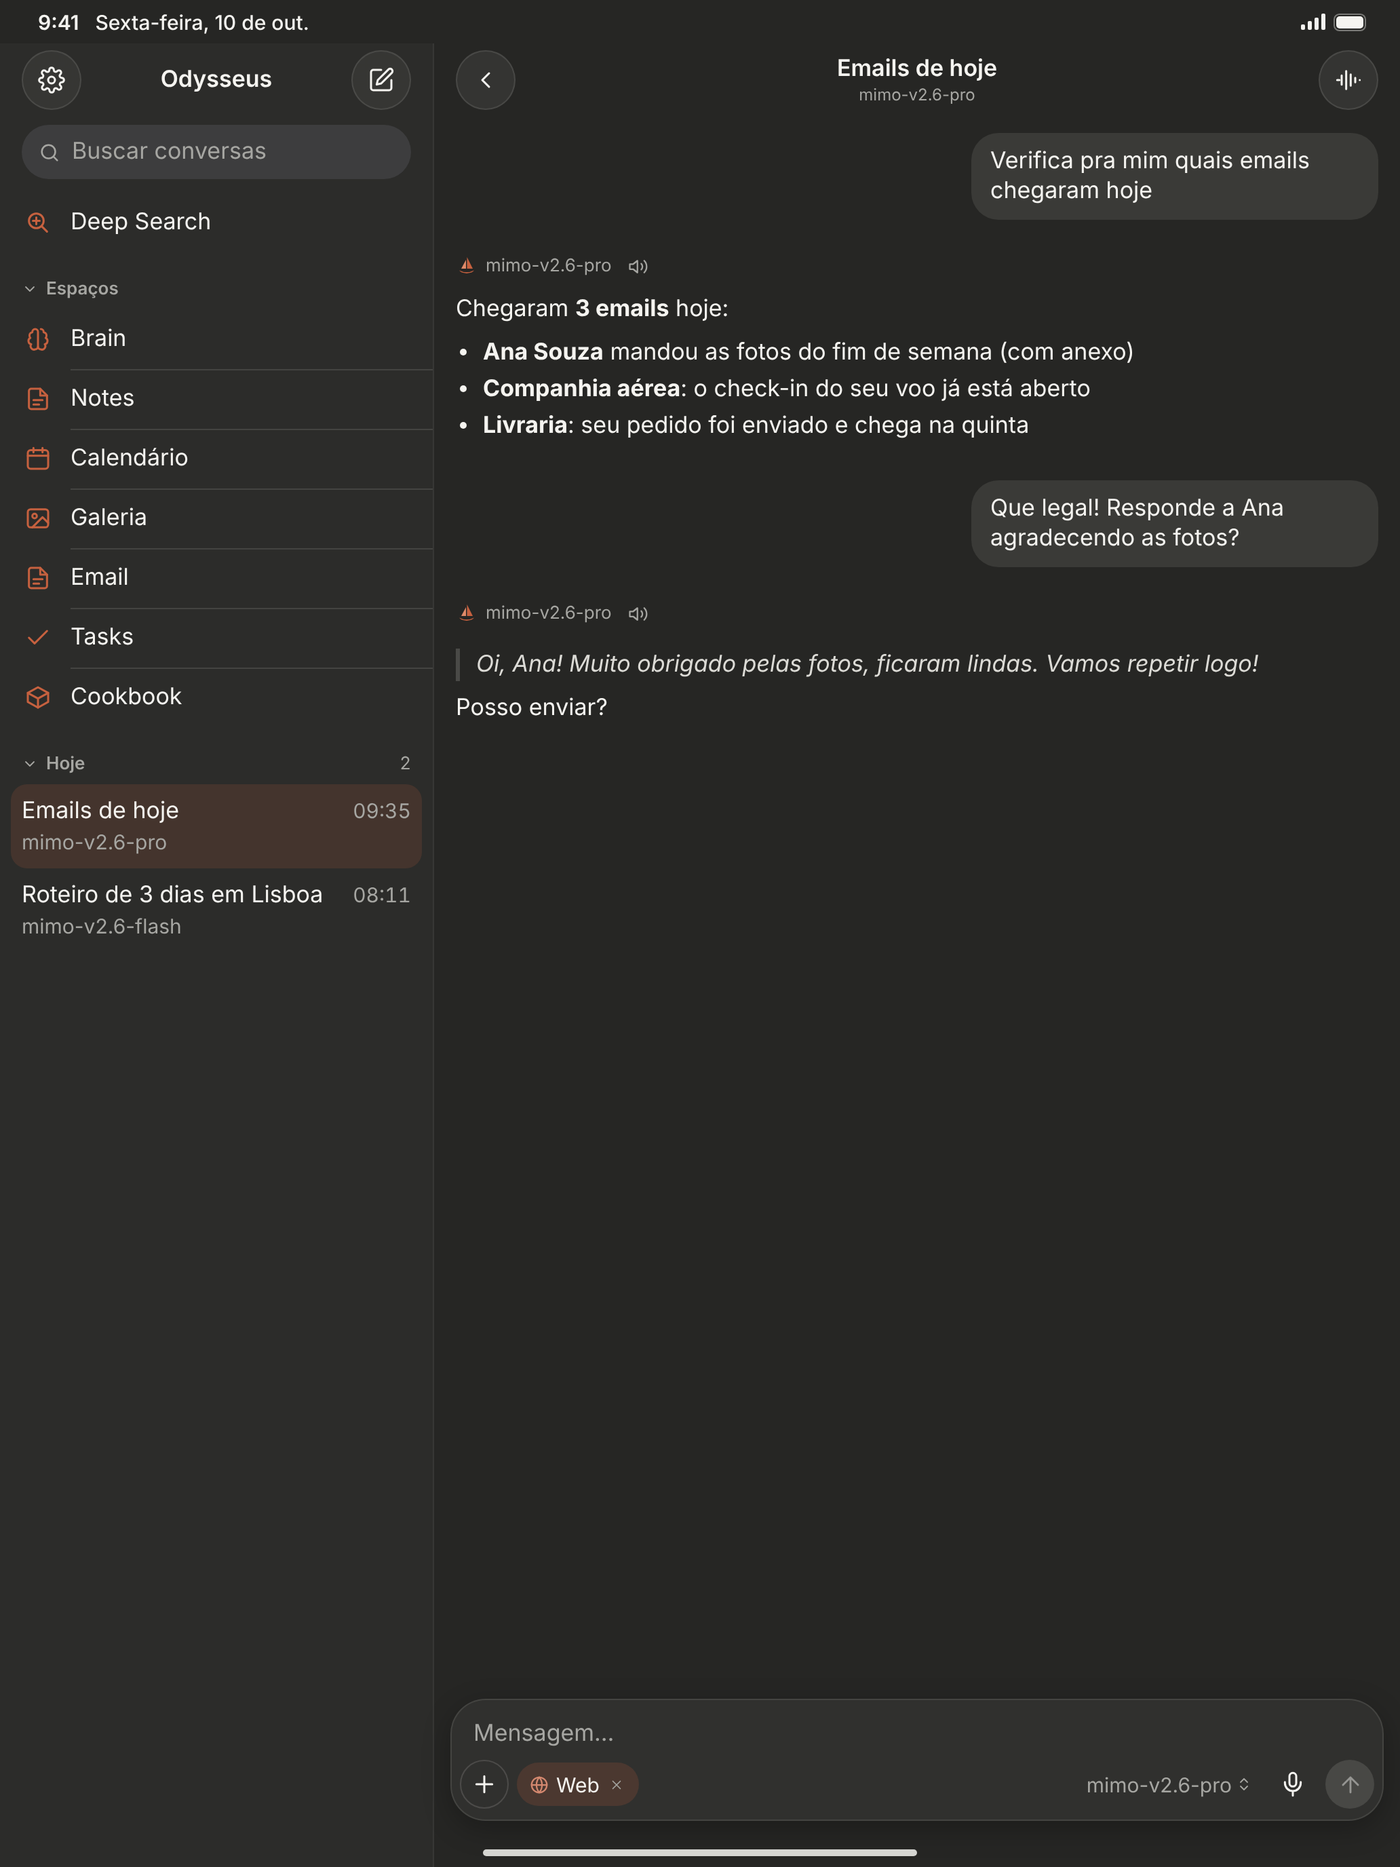
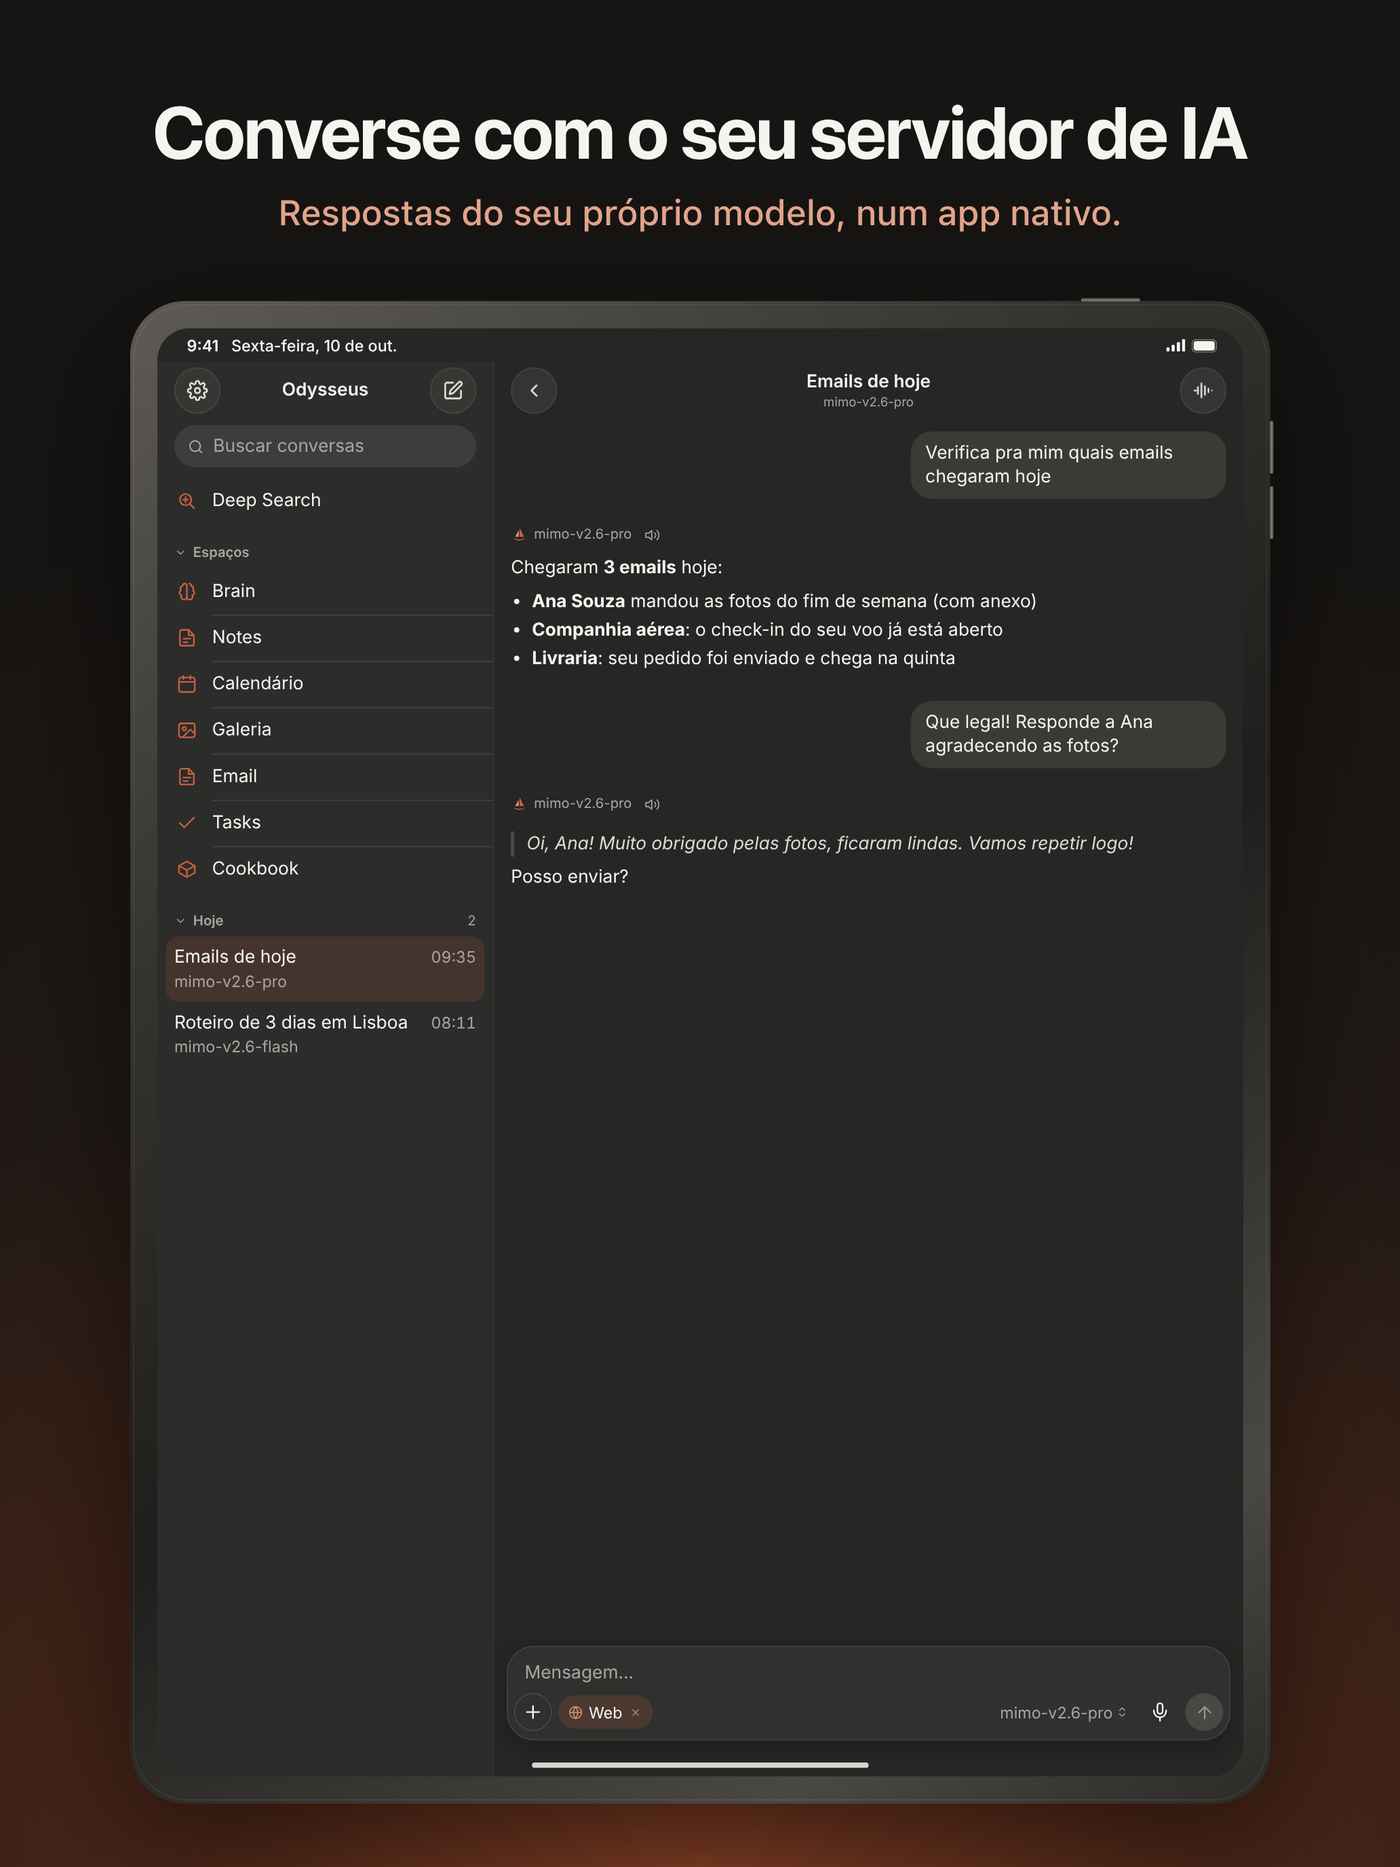
feat(appstore): device frames and captions on the store images; round close button in Voz
- iPhone, iPhone Duo and iPad images now show the device frame and a short
  caption; the bare screens move to out/sem-moldura.
- No third-party AI names in any image: faster-whisper left the Cookbook
  screen, sample models are mimo-v2.6-pro / mimo-v2.6-flash only.
- Voz closes with a glass X button, like the other bar buttons in the
  iPhone Duo side rail.

Claude-Session: https://claude.ai/code/session_014hM6K7GVEBdyn6GLDqmvWN

diff --git a/docs/appstore/shots.js b/docs/appstore/shots.js
@@ -106,6 +106,91 @@
     return '<div class="ph" style="left:' + x + 'px;top:' + y + 'px;transform:scale(' + scale + ') rotate(' + rot + 'deg)">' + O.phone(S[i].h) + '</div>';
   }
 
+  // ---------- App Store images with the device frame ----------
+  var css2 = document.createElement('style');
+  css2.textContent = [
+    '.canvas { position: relative; overflow: hidden; background: radial-gradient(130% 75% at 50% 100%, #8a4227 0%, #4a2618 30%, #221a16 62%, #171513 100%); font-family: "SF Pro Display", var(--ui); color: #f5f4f0; -webkit-font-smoothing: antialiased; }',
+    '.canvas .cap { position: absolute; left: 0; right: 0; text-align: center; padding: 0 6%; }',
+    '.canvas .cap h1 { margin: 0; font-weight: 700; letter-spacing: -0.02em; text-wrap: balance; line-height: 1.08; }',
+    '.canvas .cap p { margin: 0; font-family: "SF Pro Text", var(--ui); font-weight: 500; color: #e3a58d; letter-spacing: -0.01em; text-wrap: balance; line-height: 1.25; }',
+    '.dev { position: absolute; transform-origin: top left; }',
+    '.dev .shell { position: relative; background: #050505; filter: drop-shadow(0 40px 60px rgba(0,0,0,.55)); }',
+    '.dev .shell::before { content: ""; position: absolute; inset: -4px; border-radius: inherit; background: linear-gradient(145deg, #5e5b55, #34332f 30%, #1f1e1c 55%, #4a4844 85%, #2b2a27); z-index: -1; }',
+    '.dev .shell::after { content: ""; position: absolute; inset: -1px; border-radius: inherit; box-shadow: inset 0 0 0 1px rgba(255,255,255,.08); pointer-events: none; }',
+    '.dev .shell > .phone, .dev .shell > .duo, .dev .shell > .ipad { margin: 0; box-shadow: none; position: relative; }',
+    '.dev .btn { position: absolute; background: linear-gradient(90deg, #3a3936, #85827b 50%, #3a3936); border-radius: 3px; }',
+    '.dev .btn.h { background: linear-gradient(180deg, #3a3936, #85827b 50%, #3a3936); }'
+  ].join('\n');
+  document.head.appendChild(css2);
+
+  var CAP = {
+    chat: ['Converse com o seu servidor de IA', 'Respostas do seu próprio modelo, num app nativo.'],
+    voz: ['Fale e ouça a resposta', 'Modo de voz mãos-livres, com interrupção natural.'],
+    conversas: ['Todas as conversas à mão', 'Busca, fixadas e grupos por dia.'],
+    brain: ['Uma memória que é sua', 'O que o assistente lembra de você, organizado.'],
+    calendario: ['Agenda em linguagem natural', 'Escreva “reunião amanhã 14h” e pronto.'],
+    tasks: ['Tarefas que rodam sozinhas', 'Agende, pause e rode quando quiser.'],
+    cookbook: ['Motores e modelos pelo celular', 'Instale pacotes no seu servidor.'],
+    nova: ['Seu servidor no bolso', 'Sem nuvem de terceiros.']
+  };
+  var IPHONE_CAP = ['chat', 'voz', 'conversas', 'brain', 'calendario', 'tasks', 'cookbook', 'nova'];
+  var DUO_CAP = ['conversas', 'chat', 'voz', 'brain', 'calendario', 'tasks'];
+  var IPAD_CAP = ['chat', 'voz', 'brain', 'calendario', 'tasks', 'cookbook'];
+
+  // Each device drawn at its real point size; the canvas scales it to fit.
+  function iphoneDevice(inner, w, h) {
+    var b = 13, r = 62 + b;
+    var x = function (side, top, len, wid) {
+      return '<span class="btn" style="' + side + ':-' + (wid + 3) + 'px;top:' + top + 'px;width:' + wid + 'px;height:' + len + 'px"></span>';
+    };
+    return { w: w + 2 * b, h: h + 2 * b, html:
+      '<div class="shell" style="padding:' + b + 'px;border-radius:' + r + 'px">' + inner +
+      x('left', 150, 32, 4) + x('left', 210, 60, 4) + x('left', 284, 60, 4) +
+      x('right', 236, 96, 4) + x('right', 520, 54, 4) + '</div>' };
+  }
+  function duoDevice(inner) {
+    var b = 9;
+    return { w: 466 + 2 * b, h: 678 + 2 * b, html:
+      '<div class="shell" style="padding:' + b + 'px;border-radius:' + (10 + b) + 'px ' + (59 + b) + 'px ' + (59 + b) + 'px ' + (10 + b) + 'px">' + inner +
+      '<span class="btn h" style="top:-7px;left:120px;width:60px;height:4px"></span>' +
+      '<span class="btn" style="right:-7px;top:150px;width:4px;height:70px"></span></div>' };
+  }
+  function ipadDevice(inner) {
+    var b = 22;
+    return { w: 1032 + 2 * b, h: 1376 + 2 * b, html:
+      '<div class="shell" style="padding:' + b + 'px;border-radius:' + (30 + b) + 'px">' +
+      inner.replace('<div class="ipad">', '<div class="ipad" style="border-radius:30px">') +
+      '<span class="btn h" style="top:-7px;right:120px;width:56px;height:4px"></span>' +
+      '<span class="btn" style="right:-7px;top:110px;width:4px;height:50px"></span>' +
+      '<span class="btn" style="right:-7px;top:172px;width:4px;height:50px"></span></div>' };
+  }
+
+  function canvas(W, H, cap, dev, o) {
+    // o: capTop, h1, p, gap, bottom (all in canvas points)
+    var capH = o.capTop + o.h1 * 1.08 * o.lines + o.gap + o.p * 1.25 + o.afterCap;
+    var s = Math.min((H - capH - o.bottom) / dev.h, (W * o.maxW) / dev.w);
+    var x = (W - dev.w * s) / 2, y = capH;
+    return '<div class="canvas" style="width:' + W + 'px;height:' + H + 'px">' +
+      '<div class="cap" style="top:' + o.capTop + 'px"><h1 style="font-size:' + o.h1 + 'px">' + cap[0] + '</h1>' +
+      '<p style="font-size:' + o.p + 'px;margin-top:' + o.gap + 'px">' + cap[1] + '</p></div>' +
+      '<div class="dev" style="left:' + x + 'px;top:' + y + 'px;width:' + dev.w + 'px;height:' + dev.h + 'px;transform:scale(' + s + ')">' + dev.html + '</div></div>';
+  }
+
+  function phoneScreen(i, w, h) {
+    return O.phone(S[i].h).replace('<div class="phone">', '<div class="phone" style="width:' + w + 'px;height:' + h + 'px">');
+  }
+
+  var FRAMED = {
+    fiphone63: function (i) { return { w: 402, h: 874, html: canvas(402, 874, CAP[IPHONE_CAP[i]], iphoneDevice(phoneScreen(IPHONE[i], 402, 874), 402, 874),
+      { capTop: 44, h1: 27, lines: 2, gap: 8, p: 14, afterCap: 30, bottom: 30, maxW: 0.86 }) }; },
+    fiphone69: function (i) { return { w: 440, h: 956, html: canvas(440, 956, CAP[IPHONE_CAP[i]], iphoneDevice(phoneScreen(IPHONE[i], 440, 956), 440, 956),
+      { capTop: 48, h1: 29, lines: 2, gap: 9, p: 15, afterCap: 32, bottom: 32, maxW: 0.86 }) }; },
+    fduo: function (i) { return { w: 466, h: 678, html: canvas(466, 678, CAP[DUO_CAP[i]], duoDevice(O.duo(D[i].h, D[i].rail)),
+      { capTop: 26, h1: 23, lines: 1, gap: 5, p: 13, afterCap: 22, bottom: 22, maxW: 0.9 }) }; },
+    fipad: function (i) { return { w: 1032, h: 1376, html: canvas(1032, 1376, CAP[IPAD_CAP[i]], ipadDevice(IPAD[i]()),
+      { capTop: 70, h1: 54, lines: 1, gap: 14, p: 26, afterCap: 50, bottom: 50, maxW: 0.9 }) }; }
+  };
+
   window.SHOT = function (kind, i) {
     document.body.setAttribute('data-font', 'sf');
     document.body.classList.add('shot');
@@ -116,8 +201,10 @@
     else if (kind === 'duo') { html = O.duo(D[i].h, D[i].rail); w = 466; h = 678; }
     else if (kind === 'ipad') { html = IPAD[i](); w = 1032; h = 1376; }
     else if (kind === 'promo') { html = promo(i); w = 2000; h = i === 'wide' ? 857 : 1333; }
+    else if (FRAMED[kind]) { var f = FRAMED[kind](i); html = f.html; w = f.w; h = f.h; }
     box.innerHTML = html;
     return { w: w, h: h };
   };
-  window.SHOT_COUNTS = { iphone63: IPHONE.length, iphone69: IPHONE.length, duo: D.length, ipad: IPAD.length };
+  window.SHOT_COUNTS = { iphone63: IPHONE.length, iphone69: IPHONE.length, duo: D.length, ipad: IPAD.length,
+    fiphone63: IPHONE.length, fiphone69: IPHONE.length, fduo: D.length, fipad: IPAD.length };
 })();

diff --git a/docs/mockups/odysseus-iphone.html b/docs/mockups/odysseus-iphone.html
@@ -446,11 +446,11 @@ figure { margin: 0; }
       '<div class="row"><span class="lead">' + ic('pin') + '</span><div class="main"><span class="ttl">Ideias para o fim de semana</span><span class="sub">mimo-v2.6-pro</span></div><span class="meta">30 set.</span></div>' +
       '<div class="sechead">' + ic('down') + 'Hoje<span class="n">2</span></div>' +
       '<div class="row"><span class="lead"></span><div class="main"><span class="ttl">Emails de hoje</span><span class="sub">mimo-v2.6-pro</span></div><span class="meta">09:35</span></div>' +
-      '<div class="row"><span class="lead"></span><div class="main"><span class="ttl">Roteiro de 3 dias em Lisboa</span><span class="sub">qwen3-32b</span></div><span class="meta">08:11</span></div>' +
+      '<div class="row"><span class="lead"></span><div class="main"><span class="ttl">Roteiro de 3 dias em Lisboa</span><span class="sub">mimo-v2.6-flash</span></div><span class="meta">08:11</span></div>' +
       '<div class="sechead">' + ic('down') + 'Ontem<span class="n">3</span></div>' +
       '<div class="row"><span class="lead"></span><div class="main"><span class="ttl">Jantar com o que tem na geladeira</span><span class="sub">mimo-v2.6-flash</span></div><span class="meta">19:17</span></div>' +
       '<div class="row"><span class="lead"></span><div class="main"><span class="ttl">Presente para a minha mãe</span><span class="sub">mimo-v2.6-flash</span></div><span class="meta">12:05</span></div>' +
-      '<div class="row"><span class="lead"></span><div class="main"><span class="ttl">Resumo da reunião de produto</span><span class="sub">llama-4-scout</span></div><span class="meta">09:41</span></div>' +
+      '<div class="row"><span class="lead"></span><div class="main"><span class="ttl">Resumo da reunião de produto</span><span class="sub">mimo-v2.6-pro</span></div><span class="meta">09:41</span></div>' +
       '<div class="fade-bottom"></div>' +
       '<div class="tabbar"><div>' + ic('brain') + 'Brain</div><div>' + ic('note') + 'Notes</div><div>' + ic('cal') + 'Calendário</div><div>' + ic('photo') + 'Galeria</div><div>' + ic('more') + 'Mais</div></div>' +
       '</div>' });
@@ -487,14 +487,14 @@ figure { margin: 0; }
 
   S.push({ t: 'Voz · falando', d: 'O modelo fica embaixo do título e abre o menu ao tocar, como no chat. O círculo respira enquanto fala; “Encerrar” é neutro.',
     h: '<div class="behind"></div><div class="sheet"><div class="grabber"></div>' +
-      '<div class="vnav"><span class="l gpill">Fechar</span><span class="t"><b>Voz</b><small>mimo-v2.6-pro' + ic('down') + '</small></span><span class="r"></span></div>' +
+      '<div class="vnav"><span class="l gbtn">' + ic('x') + '</span><span class="t"><b>Voz</b><small>mimo-v2.6-pro' + ic('down') + '</small></span><span class="r"></span></div>' +
       '<div class="vtrans"><div class="vb u">Quem ganhou o jogo do Flamengo ontem?</div><div class="vb a">Segundo a busca, o Flamengo venceu por 2 a 1, com dois gols no segundo tempo.</div></div>' +
       '<div class="orbwrap"><div class="orb live">' + ic('spk') + '</div><div class="vstatus">Falando…</div></div>' +
       '<div class="bigbtn secondary">' + ic('stop') + 'Encerrar</div></div>' });
 
   S.push({ t: 'Voz · busca desligada', d: 'Corrige o “(sem resposta)”: a tela diz o que houve e leva direto ao ajuste.',
     h: '<div class="behind"></div><div class="sheet"><div class="grabber"></div>' +
-      '<div class="vnav"><span class="l gpill">Fechar</span><span class="t"><b>Voz</b><small>Padrão do servidor' + ic('down') + '</small></span><span class="r"></span></div>' +
+      '<div class="vnav"><span class="l gbtn">' + ic('x') + '</span><span class="t"><b>Voz</b><small>Padrão do servidor' + ic('down') + '</small></span><span class="r"></span></div>' +
       '<div class="vtrans"><div class="vb u">Quem ganhou o jogo do Flamengo ontem?</div>' +
       '<div class="notice">' + ic('globeoff') + '<div><b>A busca na web está desligada</b><span>Tentei pesquisar para responder, mas a busca está desligada na voz.</span><span class="lnk">Voz e modelos' + ic('right') + '</span></div></div></div>' +
       '<div class="orbwrap"><div class="orb">' + ic('mic') + '</div><div class="vstatus">Toque para conversar</div></div>' +
@@ -543,7 +543,6 @@ figure { margin: 0; }
       '<div class="row ic"><span class="ibox">' + ic('cpu') + '</span><div class="main"><span class="ttl">llama.cpp</span><span class="sub">Inferência leve, em CPU e GPU.</span></div><span class="ok">' + ic('check') + 'instalado</span></div>' +
       '<div class="row ic"><span class="ibox">' + ic('server') + '</span><div class="main"><span class="ttl">vLLM</span><span class="sub">Serve modelos em GPU com alta vazão.</span></div><span class="get">Instalar</span></div></div>' +
       '<div class="ghead">Utilidades</div><div class="group"><div class="row ic"><span class="ibox">' + ic('box') + '</span><div class="main"><span class="ttl">hf_transfer</span><span class="sub">Downloads rápidos de modelos.</span></div><span class="ok">' + ic('check') + 'instalado</span></div></div>' +
-      '<div class="ghead">Voz</div><div class="group"><div class="row ic"><span class="ibox">' + ic('wave') + '</span><div class="main"><span class="ttl">faster-whisper</span><span class="sub">Transcrição de voz no servidor.</span></div><span class="get">Instalar</span></div></div>' +
       '</div>' });
 
   S.push({ t: 'Login', d: 'Campos agrupados com rótulo dentro, foco visível, servidor como botão de 36 pt e “Entrar” em cápsula.',
@@ -594,8 +593,8 @@ figure { margin: 0; }
       '<div class="ai"><div class="aihead">' + MARK + 'mimo-v2.6-pro<span class="spk">' + ic('spk') + '</span></div>' +
       '<div class="aitext"><p>Chegaram <b>3 emails</b> hoje:</p><ul><li><b>Ana Souza</b> mandou as fotos do fim de semana</li><li><b>Companhia aérea</b>: o check-in já está aberto</li><li><b>Livraria</b>: o pedido chega na quinta</li></ul></div></div>' +
       '</div></div>' + composer({ chips: [['globe', 'Web']] }) });
-  D.push({ t: 'Voz', d: 'Fechar vai para a trilha. O círculo encolhe para 92 pt e a conversa ganha a altura que sobra.',
-    rail: '<span class="gpill">Fechar</span>',
+  D.push({ t: 'Voz', d: 'O botão de fechar vira um círculo na trilha, como os outros. O círculo encolhe para 92 pt e a conversa ganha a altura que sobra.',
+    rail: g('x'),
     h: dnav('Voz', 'mimo-v2.6-pro' + ic('down')) +
       '<div class="vtrans"><div class="vb u">Quem ganhou o jogo do Flamengo ontem?</div><div class="vb a">Segundo a busca, o Flamengo venceu por 2 a 1, com dois gols no segundo tempo.</div></div>' +
       '<div class="orbwrap"><div class="orb live">' + ic('spk') + '</div><div class="vstatus">Falando…</div></div>' +

diff --git a/docs/appstore/render.js b/docs/appstore/render.js
@@ -12,11 +12,16 @@ const page_ = path.join(root, 'docs', 'mockups', 'odysseus-iphone.html');
 const out = path.resolve(process.argv[2] || path.join(root, 'docs', 'appstore', 'out'));
 
 const SETS = [
-  // dir, kind, scale (px per pt)
-  ['iphone-6.3', 'iphone63', 3],   // 1206 × 2622
-  ['iphone-6.9', 'iphone69', 3],   // 1320 × 2868
-  ['iphone-duo', 'duo', 3],        // 1398 × 2034
-  ['ipad-13', 'ipad', 2],          // 2064 × 2752
+  // dir, kind, scale (px per pt). The App Store sets carry the device frame
+  // and a caption; `sem-moldura` keeps the bare screens.
+  ['iphone-6.3', 'fiphone63', 3],   // 1206 × 2622
+  ['iphone-6.9', 'fiphone69', 3],   // 1320 × 2868
+  ['iphone-duo', 'fduo', 3],        // 1398 × 2034
+  ['ipad-13', 'fipad', 2],          // 2064 × 2752
+  ['sem-moldura/iphone-6.3', 'iphone63', 3],
+  ['sem-moldura/iphone-6.9', 'iphone69', 3],
+  ['sem-moldura/iphone-duo', 'duo', 3],
+  ['sem-moldura/ipad-13', 'ipad', 2],
 ];
 const NAMES = {
   iphone63: ['01-chat', '02-voz', '03-conversas', '04-brain', '05-calendario', '06-tasks', '07-cookbook', '08-nova-conversa'],
@@ -24,6 +29,9 @@ const NAMES = {
   ipad: ['01-chat', '02-voz', '03-brain', '04-calendario', '05-tasks', '06-cookbook'],
 };
 NAMES.iphone69 = NAMES.iphone63;
+NAMES.fiphone63 = NAMES.fiphone69 = NAMES.iphone63;
+NAMES.fduo = NAMES.duo;
+NAMES.fipad = NAMES.ipad;
 
 (async () => {
   const html = fs.readFileSync(page_, 'utf8');

diff --git a/Odysseus/Features/Voice/VoiceView.swift b/Odysseus/Features/Voice/VoiceView.swift
@@ -54,8 +54,16 @@ struct VoiceView: View {
             .navigationTitle(Text("Voz"))
             .navigationBarTitleDisplayMode(.inline)
             .toolbar {
+                // A glass circle like every other bar button: on the iPhone
+                // Duo the system moves it into the side rail, where a text
+                // pill stood out next to the round ones.
                 ToolbarItem(placement: .cancellationAction) {
-                    BarButton("Fechar") { convo.stop(); dismiss() }
+                    Button { convo.stop(); dismiss() } label: {
+                        Image(systemName: "xmark")
+                            .font(.ody(.body, weight: .semibold))
+                            .foregroundStyle(theme.fg)
+                    }
+                    .accessibilityLabel(Text("Fechar"))
                 }
                 // The model rides under the title, as in the chat. As its own
                 // trailing pill it pushed into "Voz" whenever the name was long.

diff --git a/docs/appstore/README.md b/docs/appstore/README.md
@@ -9,6 +9,9 @@ Geradas a partir das telas de `docs/mockups/odysseus-iphone.html`.
 | `out/iphone-duo` | 1398 × 2034 | iPhone Duo |
 | `out/ipad-13` | 2064 × 2752 | iPad 13" |
 | `out/promo` | 2000 × 857 e 2000 × 1333 | imagens de divulgação |
+| `out/sem-moldura/*` | os mesmos tamanhos | só as telas, sem moldura nem legenda (não é para enviar) |
+
+As imagens de envio trazem a moldura do aparelho e uma legenda curta; as legendas ficam em `CAP`, em `shots.js`.
 
 Para gerar de novo (precisa da SF Pro instalada, do pacote de fontes da Apple, e do Playwright com Chromium):
 
@@ -16,4 +19,4 @@ Para gerar de novo (precisa da SF Pro instalada, do pacote de fontes da Apple, e
 node docs/appstore/render.js
 ```
 
-Os modelos que aparecem são `mimo-v2.6-pro` e `mimo-v2.6-flash`.
+Os modelos que aparecem são `mimo-v2.6-pro` e `mimo-v2.6-flash`. Nenhuma imagem pode citar serviço ou modelo de IA de terceiros (OpenAI, ChatGPT, GPT, Copilot, Whisper…): a ficha inteira segue essa regra.
